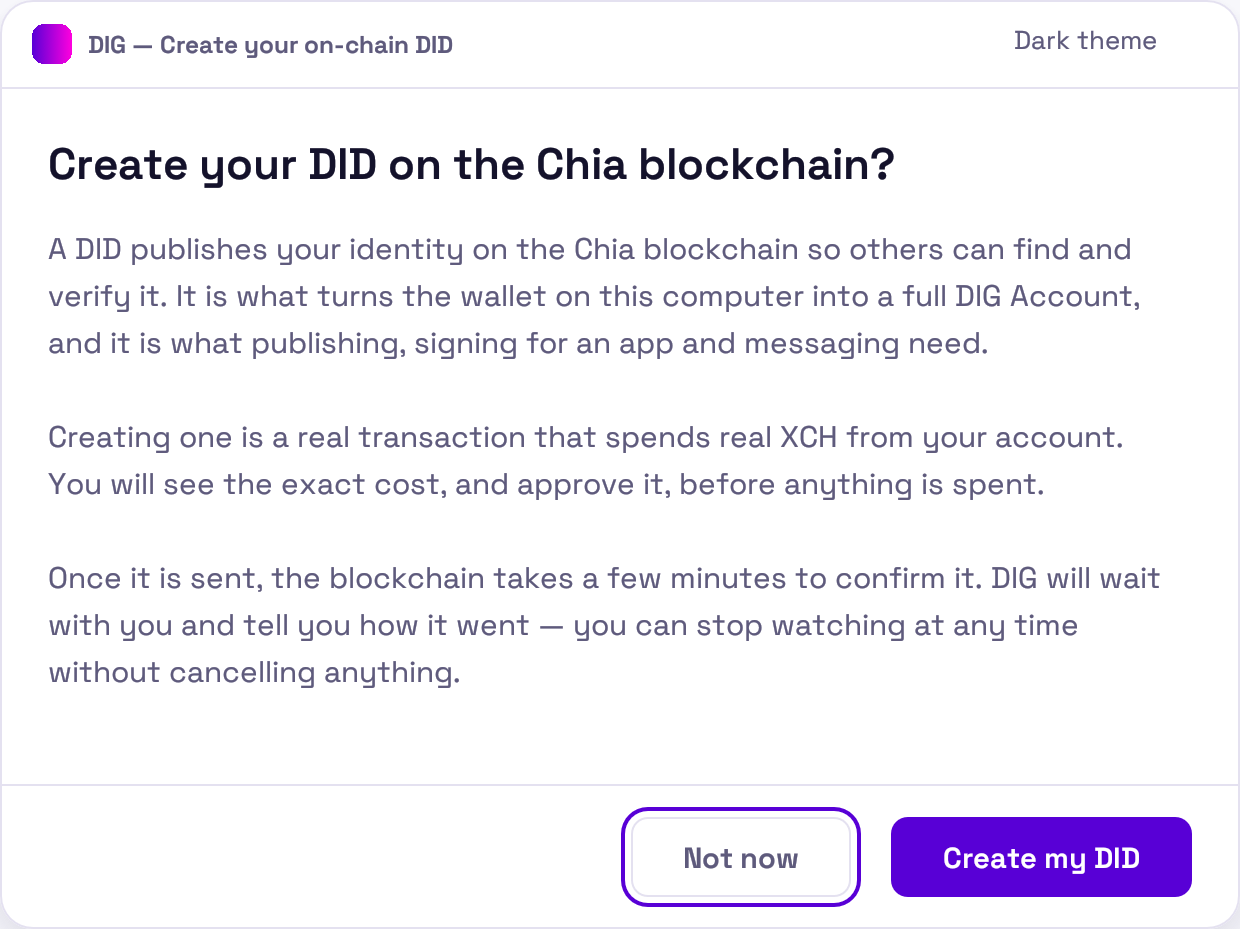
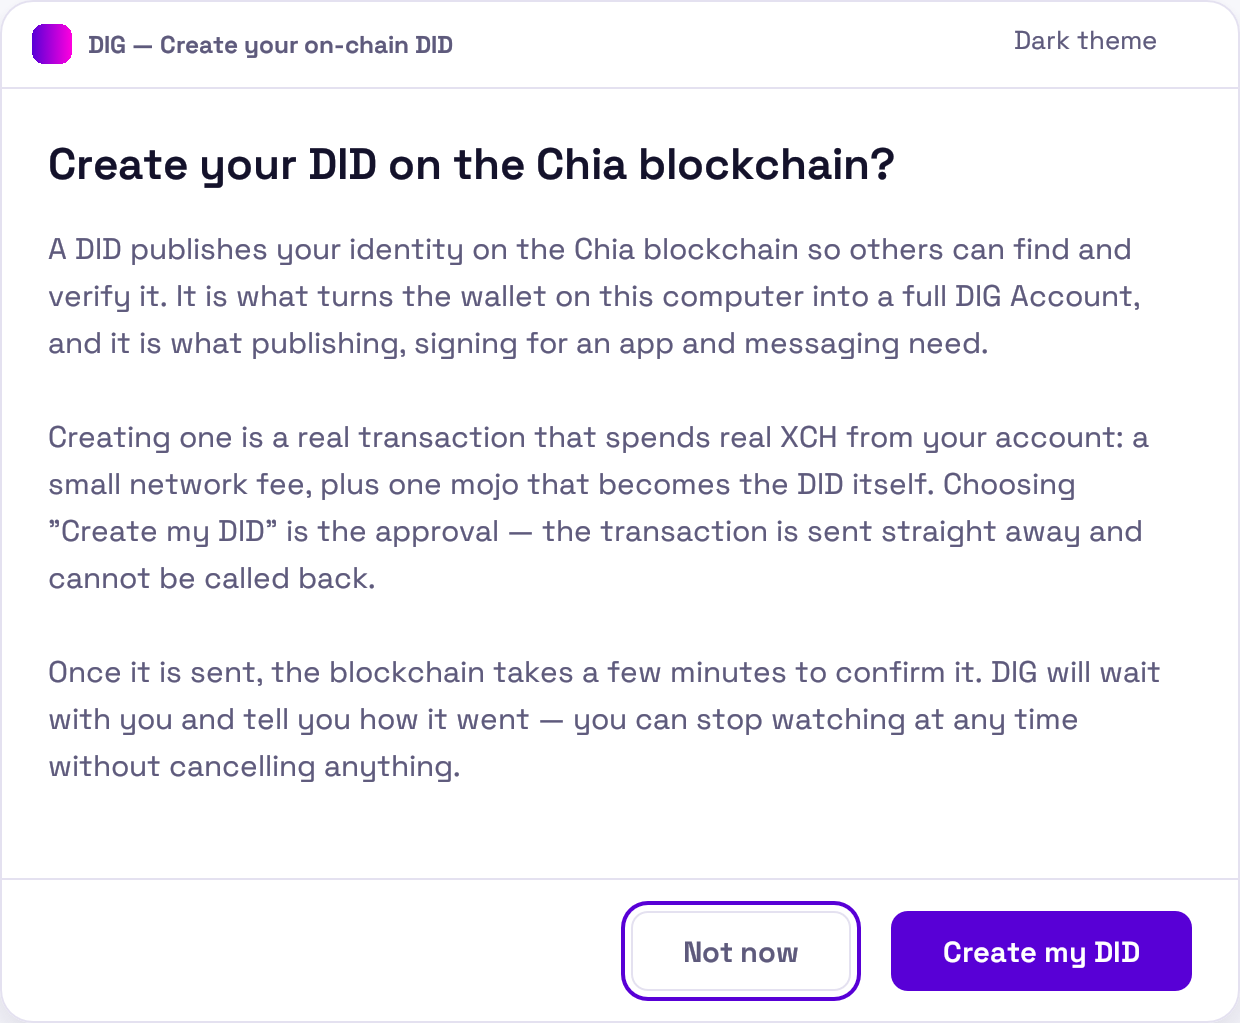
docs(spec): record the one chain read a mint still lacks, and bump to 9.0.0

diff --git a/SPEC.md b/SPEC.md
@@ -287,10 +287,23 @@ neither may be relaxed:
 per call and never retained, so a mint observes lock-now, the idle timeout and the OS screen lock
 exactly as the money signer does.
 
-What is missing is the TRANSPORT. `dig-node-control-interface` 0.3.0 exposes one wallet method,
-`control.wallet.balance`: there is no coin read, no peak height and no push, which is why
-`wallet::node::NodeWalletEngine` refuses `coins` and `broadcast`. So `MintAvailability` is
-`NoChainTransport` on this build, the startup gate correctly draws nothing, and no `TrayAction` mints.
+What is missing is one READ. `dig-node-control-interface` 0.6.0 gave dig-app three of the four the
+mint needs, and `wallet::node::NodeWalletEngine` speaks all three: `control.wallet.coins` selects the
+funding coin, `control.wallet.peak` bounds a claimed confirmation, and `control.wallet.broadcast`
+pushes the signed bundle.
+
+The fourth is a coin read **by coin id**, and no control method provides it. `mint_status` asks the
+chain for the DID coin's record — that IS the confirmation — and for the funding coin's, to tell a slow
+mint from one that can never confirm because its input was spent elsewhere. `control.wallet.coins`
+answers for an ADDRESS and reports only UNSPENT coins, so it can see neither. A mint on that transport
+could be pushed — real XCH, gone — and never observed, and §3.1b's evidence rule permits recording a
+DID only from a confirmation. So the shell supplies `account::chain_mint::MintSeams::NoChainTransport`
+on this build, the startup gate correctly draws nothing, and no `TrayAction` mints.
+
+**The gate and the minter MUST be one value (MUST).** Availability is READ OFF `MintSeams`
+(`MintSeams::availability`), never asserted beside it. A build that reports a mint as possible
+therefore holds a real minter by construction, and no single edit can open the wizard while leaving it
+uncompletable.
 
 Because that is still the state for every account on this version, "no DID yet" MUST NOT be modelled as
 an `AccountState` (§3.1c): every account on every host would sit in it, with no control that could leave
@@ -1609,9 +1622,16 @@ down:
    is SHOWN, not awaited: the flow is a chain of OS-owned modal windows (§3.1d) and a modal cannot poll
    a chain, so an implementation MUST NOT present a "waiting for funds" screen it cannot be waiting on.
 4. **DID** — offer the mint, naming what it costs, with the refusal PRE-SELECTED (affirming spends real
-   XCH). On a build that cannot mint (§3.1b), name the on-chain DID as the remaining REQUIRED step and
-   state plainly that minting is not available in this version; it MUST NOT present a control that
-   appears to mint.
+   XCH). The offer IS the approval: affirming it pushes the spend with nothing further shown, so the
+   offer and every screen before it MUST NOT promise a later cost screen or a second approval. On a
+   build that cannot mint (§3.1b), name the on-chain DID as the remaining REQUIRED step and state
+   plainly that minting is not available in this version; it MUST NOT present a control that appears to
+   mint.
+   - **One paid mint per minter (MUST).** A `DidMinter` that has already pushed MUST refuse a second
+     `submit` rather than paying a second fee: the second push would also overwrite the pending mint,
+     making the FIRST unobservable — money spent and no DID ever recorded.
+   - **An observer answers only about the spend it is asked about (MUST).** `look(spend_id)` MUST
+     report `Unreachable` unless `spend_id` names the mint that observer itself pushed.
 5. **Wait** — where a mint WAS submitted, watch the chain (`account::mint::await_confirmation`). The
    wait MUST report what is being waited for and HOW LONG it has been waiting, and MUST offer a way to
    stop that does not cancel the spend. It MUST end in one of four distinct, honest outcomes —
@@ -1756,10 +1776,19 @@ session as a small, **byte-identical cross-repo method set the engine implements
 contract-first pattern as the §5.3 session methods). The engine's chain access is chia-query-backed
 (the canonical coinset layer):
 
-- `control.wallet.broadcast` — `{ signed_bundle_hex }` → `{ accepted, transaction_id? }`. The engine
-  forwards the signed bundle to the network and reports mempool acceptance; it sees only signed bytes.
+- `control.wallet.broadcast` — `{ signed_bundle_hex }` → `{ accepted, transaction_id?, rejection? }`.
+  The engine forwards the signed bundle to the network and reports mempool acceptance; it sees only
+  signed bytes. A mempool that LOOKED at the bundle and refused it is a successful call carrying
+  `accepted: false` and a `rejection` reason — failing to REACH a mempool is an error instead, because
+  the remedies are opposite. The method is TOKEN-GATED, so an authorization refusal on it means the
+  control token is missing and MUST NOT be reported as an out-of-date node (which is what the same
+  refusal means on the two open reads).
 - `control.wallet.coins` — `{ address, asset }` → `{ coins: [{ coin_id, asset, amount }] }`. The
-  address's spendable coins for the asset.
+  address's spendable coins for the asset. The node's reply is a strict SUPERSET (it also carries the
+  parent, the puzzle hash and the created/spent heights) and dig-app keeps the three fields above. An
+  EMPTY list is an ANSWER — the address holds nothing — and every failure to consult a chain MUST be an
+  error instead; returning an empty list for an unreachable chain would tell somebody who holds funds
+  that they hold none. Served as an OPEN read.
 - `control.wallet.balance` — `{ address, asset }` → `{ balance }`. The address's spendable balance in
   the asset's base unit. The node's reply is a strict SUPERSET of that shape; dig-app reads `balance`
   plus `synced`, and MUST treat a reply carrying `synced: false` as UNKNOWN rather than rendering the
